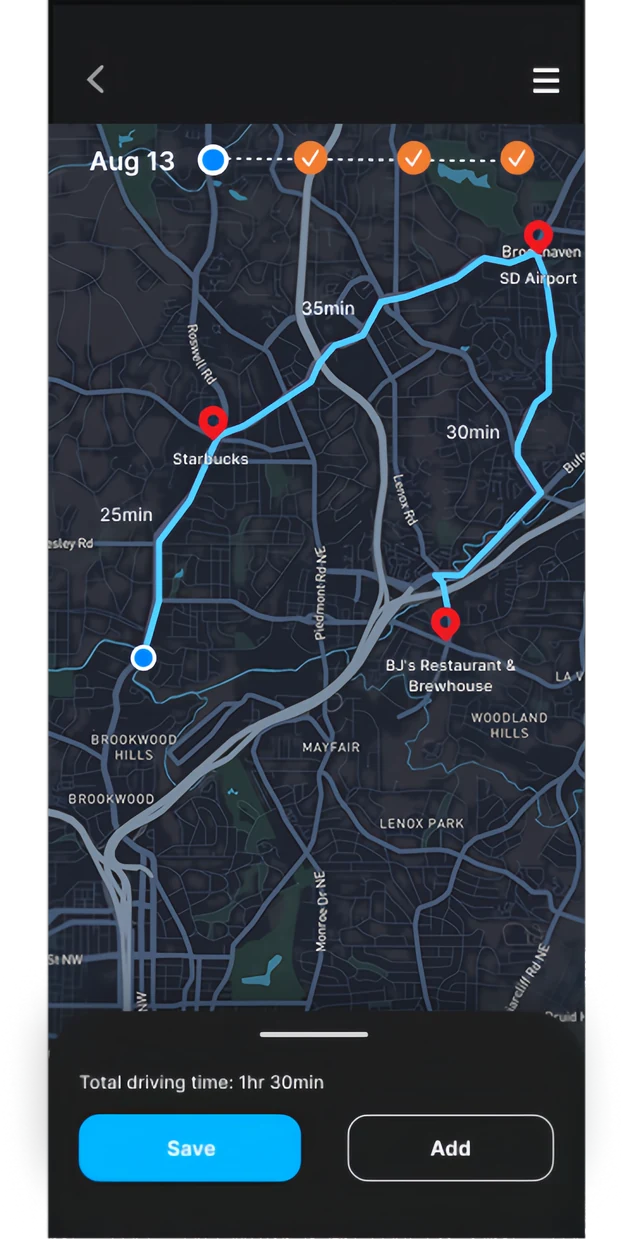
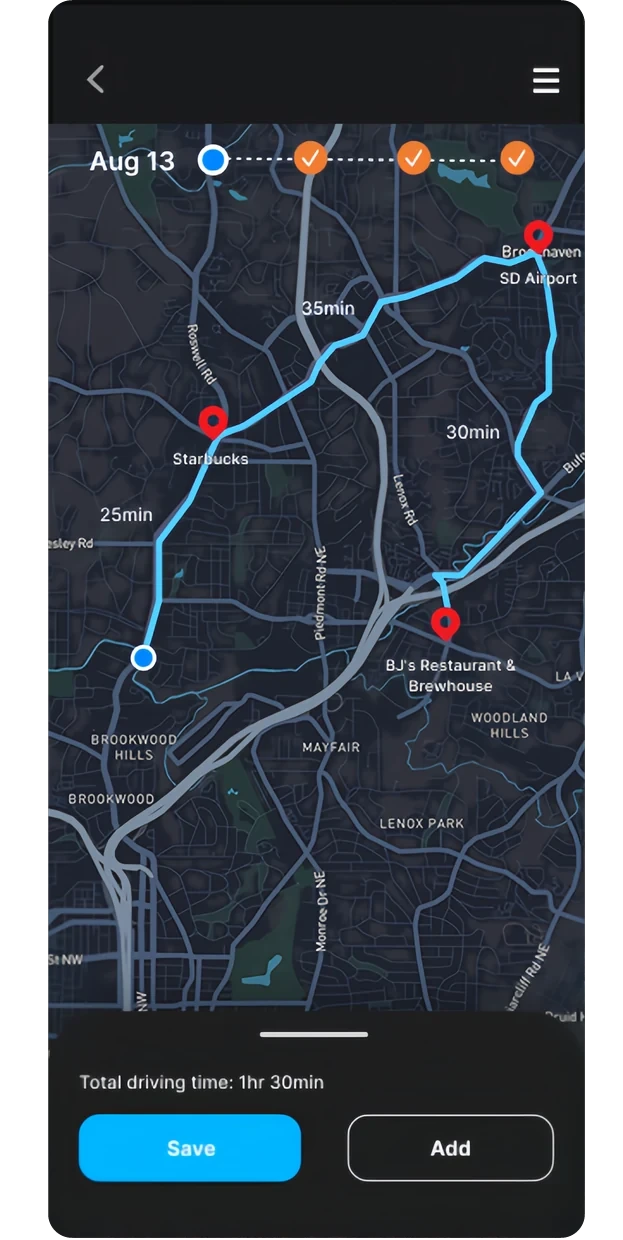
Trip Planning: uniform rounded corners on all phone mockups; new 11 Color & Materials section
tools/round_phone_corners.py rounds each phone image's visible screen at 24 px (canvas
unchanged). Palette image from ../reference/trip-planning; later sections renumbered.

diff --git a/app/work/ai-trip-planning/page.tsx b/app/work/ai-trip-planning/page.tsx
@@ -50,8 +50,9 @@ const NAV: CaseNavItem[] = [
   { id: "in-car", index: "08", label: "The In-Car Plan" },
   { id: "driving", index: "09", label: "While Driving" },
   { id: "adapt", index: "10", label: "Adaptive Planning" },
-  { id: "final", index: "11", label: "Final Experience" },
-  { id: "reflection", index: "12", label: "Reflection" },
+  { id: "color", index: "11", label: "Color & Materials" },
+  { id: "final", index: "12", label: "Final Experience" },
+  { id: "reflection", index: "13", label: "Reflection" },
 ];
 
 const ROLES = [
@@ -777,7 +778,47 @@ export default function TripPlanningCaseStudy() {
           </WideSection>
 
           {/* 11 — FINAL EXPERIENCE */}
-          <WideSection id="final" index="11" label="Final Experience" title="From intent to journey.">
+          {/* 11 — COLOR & MATERIALS */}
+          <WideSection id="color" index="11" label="Color & Materials" title="Colors you can read at a glance.">
+            <Stack>
+              <TwoCol>
+                <P>
+                  The palette is black, pure white, bright orange, bright purple, and light blue. Every color is bright and
+                  high-contrast, so a driver can <Shimmer>{"take in key information at a glance"}</Shimmer> without studying the
+                  screen.
+                </P>
+                <P>
+                  The interface sits on a dark navy base. Against it, the saturated orange, purple, and blue stand out right
+                  away and stay vivid rather than washed out, so the information that matters is the first thing the eye lands on.
+                </P>
+              </TwoCol>
+            </Stack>
+            <Reveal>
+              <figure>
+                {/* eslint-disable-next-line @next/next/no-img-element */}
+                <img
+                  src="/images/trip-planning/palette.webp"
+                  alt="The color palette: black #000000, purple #664BDC, orange #EB8037, and light blue #00B5FF"
+                  width={1400}
+                  height={1004}
+                  loading="lazy"
+                  className="mx-auto block h-auto w-full max-w-[760px] rounded-[14px]"
+                />
+                <figcaption className="font-gilroy mx-auto mt-4 max-w-[760px] text-[15px] leading-[1.6] text-neutral-400">
+                  Black #000000 · Purple #664BDC · Orange #EB8037 · Light blue #00B5FF, with pure white for text.
+                </figcaption>
+              </figure>
+            </Reveal>
+            <Stack>
+              <Box label="Frosted glass for prompts">
+                Notification and prompt bars use a frosted, translucent glass. It gives the interface a more polished,
+                design-forward finish, and because it is translucent, the map and route underneath stay visible instead of
+                being blocked, so the prompt feels like it is floating above the drive rather than covering it.
+              </Box>
+            </Stack>
+          </WideSection>
+
+          <WideSection id="final" index="12" label="Final Experience" title="From intent to journey.">
             <Reveal>
               <Shot
                 panel={false}
@@ -807,7 +848,7 @@ export default function TripPlanningCaseStudy() {
           </WideSection>
 
           {/* 12 — REFLECTION */}
-          <Section id="reflection" index="12" label="Reflection" title="From information retrieval to journey planning.">
+          <Section id="reflection" index="13" label="Reflection" title="From information retrieval to journey planning.">
             <P>
               The answer to an information problem is rarely more information. Research moved the design from screens toward
               decisions —{" "}
